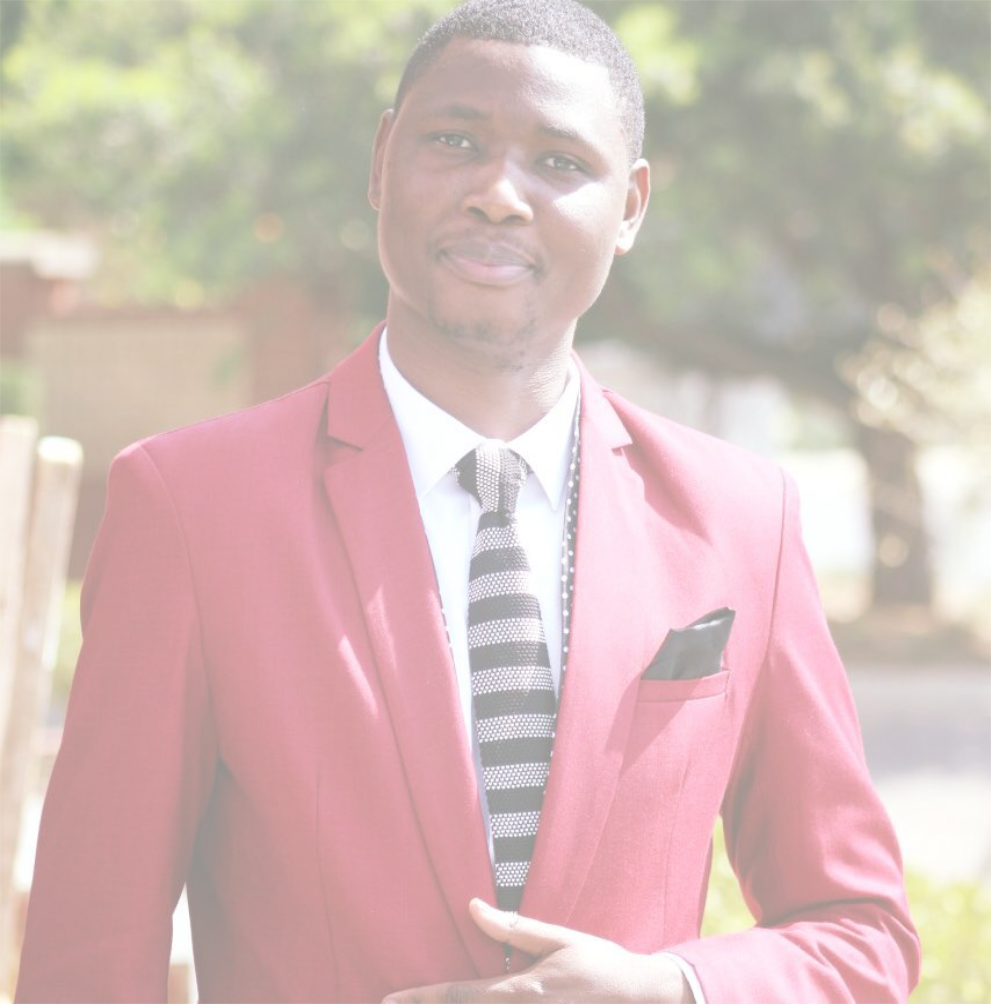
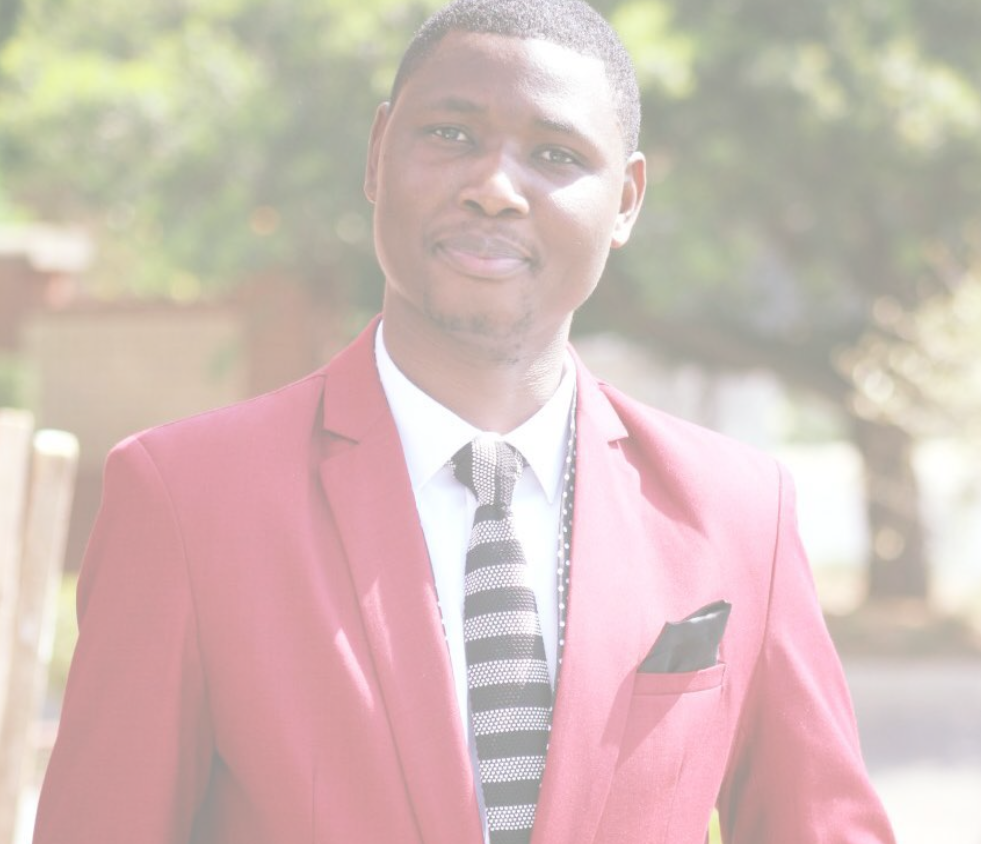
updated one image

diff --git a/index.html b/index.html
@@ -88,7 +88,7 @@
 
         <!-- Home Slider Item -->
         <div class="owl-item" style="opacity: 2">
-          <div class="home_slider_background" style="background-image:url(images/IndexImages/Pastor2.jpg)"></div>
+          <div class="home_slider_background" style="background-image:url(images/IndexImages/pastor2.png)"></div>
           <div class="home_slider_content text-center">
               <h1 class="mb-4" data-scrollax="properties: { translateY: '30%', opacity: 1.6 }"  style="opacity: 2 ;transform: translate(0px,000px);">Revealing<strong> Christ</strong>
                 in You </h1>
